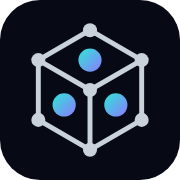
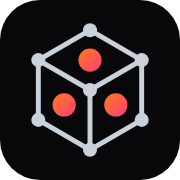
Atlas: recolour theme to Molten metal (black, orange→magenta)
Colours only; icon, manifest and theme-color match. Cache materials-atlas-v87-molten.

Claude-Session: https://claude.ai/code/session_01JnLruDE2DkYYdTFSKZkijB

Changed region(s): [[0.2778, 0.5, 0.4444, 0.6667], [0.5556, 0.5, 0.7222, 0.6667], [0.4167, 0.25, 0.5833, 0.4167]]

diff --git a/index.html b/index.html
@@ -6,7 +6,7 @@
 <meta name="author" content="Harsh Patel" />
 <meta name="viewport" content="width=device-width, initial-scale=1, viewport-fit=cover" />
 <meta name="color-scheme" content="dark" />
-<meta name="theme-color" content="#070A14" />
+<meta name="theme-color" content="#08070A" />
 <link rel="icon" href="data:," />
 <link rel="manifest" href="manifest.json">
 <link rel="apple-touch-icon" sizes="180x180" href="icon-180.png">
@@ -487,59 +487,59 @@ input:not([type=checkbox]):not([type=radio]):not(:focus),select:not(:focus),text
 }
 </style>
 <style id="titanium">
-/* ===== 2026-11-16 "Anodized titanium" theme (Harsh's choice) — presentation only, no data or
-   behaviour change. Last style layer, so it wins by cascade order. Near-black navy base, electric
-   cyan interactive accent (--teal keeps its old name), violet as the second gradient stop.
+/* ===== 2026-11-16 "Molten metal" theme (was Anodized titanium earlier the same day) (Harsh's choice) — presentation only, no data or
+   behaviour change. Last style layer, so it wins by cascade order. True-black base, molten
+   orange interactive accent (--teal keeps its old name), magenta as the second gradient stop.
    Pass/fail/warning colours are unchanged in meaning. ===== */
 :root{
-  --bg:#070A14; --panel:#0F1424; --panel2:#161C30; --steel:#161C30;
-  --ink:#E9EDF7; --ink2:#AEB8CE; --muted:#AEB8CE;
-  --line:#2A3352; --hair:#1F2742; --field:#66739A;
-  --teal:#2EE6D6; --teal-soft:rgba(46,230,214,.10); --violet:#8B7BFF;
-  --grad:linear-gradient(100deg,#2EE6D6 0%,#5FB4F0 45%,#8B7BFF 100%);
-  --on-accent:#041219;
-  --fam-steel:#7C9BFF; --fam-plate:#C38BFF; --fam-stainless:#E6EDF7; --fam-copper:#E0A867; --fam-alu:#9FB0C6; --fam-iron:#FF7AC8;
+  --bg:#08070A; --panel:#141017; --panel2:#1D1722; --steel:#1D1722;
+  --ink:#F4EEE8; --ink2:#BDB2AE; --muted:#BDB2AE;
+  --line:#3A2F3A; --hair:#2A222C; --field:#85748A;
+  --teal:#FF7A1A; --teal-soft:rgba(255,122,26,.10); --violet:#FF3D7F;
+  --grad:linear-gradient(100deg,#FF7A1A 0%,#FF5A4A 45%,#FF3D7F 100%);
+  --on-accent:#1A0A02;
+  --fam-steel:#7C9BFF; --fam-plate:#C38BFF; --fam-stainless:#E6EDF7; --fam-copper:#E8C98A; --fam-alu:#9FB0C6; --fam-iron:#FF7AC8;
 }
 html{background:
-  radial-gradient(ellipse 70% 45% at 0% 0%, rgba(46,230,214,.10) 0%, transparent 60%),
-  radial-gradient(ellipse 60% 40% at 100% 0%, rgba(139,123,255,.12) 0%, transparent 60%),
-  #070A14}
+  radial-gradient(ellipse 70% 45% at 0% 0%, rgba(255,122,26,.10) 0%, transparent 60%),
+  radial-gradient(ellipse 60% 40% at 100% 0%, rgba(255,61,127,.12) 0%, transparent 60%),
+  #08070A}
 body{background:transparent}
-::selection{background:rgba(46,230,214,.30);color:#fff}
+::selection{background:rgba(255,122,26,.30);color:#fff}
 /* header: gradient bar + gradient wordmark */
 header.top{border-top:0}
-header.top::before{content:"";position:absolute;left:0;right:0;top:0;height:4px;border-radius:4px;background:var(--grad);box-shadow:0 0 18px rgba(46,230,214,.35)}
+header.top::before{content:"";position:absolute;left:0;right:0;top:0;height:4px;border-radius:4px;background:var(--grad);box-shadow:0 0 18px rgba(255,122,26,.35)}
 h1 .atlas{background:var(--grad);-webkit-background-clip:text;background-clip:text;color:transparent;-webkit-text-fill-color:transparent}
 .sub b,.sub strong{color:#fff}
 /* the One Rule: readable sans text instead of small monospace */
-.rule{font-family:var(--sans);font-size:15px;line-height:1.5;color:var(--ink);background:linear-gradient(100deg,rgba(46,230,214,.08),rgba(139,123,255,.08));
-  border:1px solid rgba(46,230,214,.45);border-left:4px solid var(--teal);border-radius:8px;box-shadow:none;padding:12px 14px}
+.rule{font-family:var(--sans);font-size:15px;line-height:1.5;color:var(--ink);background:linear-gradient(100deg,rgba(255,122,26,.08),rgba(255,61,127,.08));
+  border:1px solid rgba(255,122,26,.45);border-left:4px solid var(--teal);border-radius:8px;box-shadow:none;padding:12px 14px}
 /* rounder, softer surfaces */
 .starthere,.card,.panel,.elcard,.idcand,.idnear,.formula,.lgi,.warnbox{border-radius:10px}
 .sh-route,.copybtn,input,select,textarea,#learnQ{border-radius:8px}
 .starthere{border-left:0;position:relative;overflow:hidden}
 .starthere::before{content:"";position:absolute;left:0;top:0;bottom:0;width:4px;background:var(--grad)}
 .starthere .sh-title{background:var(--grad);-webkit-background-clip:text;background-clip:text;color:transparent;-webkit-text-fill-color:transparent;display:inline-block}
-.sh-route:hover,.sh-route:focus-visible{border-color:var(--teal);box-shadow:0 0 0 1px rgba(46,230,214,.25),0 6px 22px rgba(46,230,214,.10)}
+.sh-route:hover,.sh-route:focus-visible{border-color:var(--teal);box-shadow:0 0 0 1px rgba(255,122,26,.25),0 6px 22px rgba(255,122,26,.10)}
 /* tabs and pressed controls: gradient fill, dark text */
-nav.tabs{background:rgba(15,20,36,.92);-webkit-backdrop-filter:blur(10px);backdrop-filter:blur(10px);border-top-color:transparent;border-image:none}
+nav.tabs{background:rgba(20,16,23,.92);-webkit-backdrop-filter:blur(10px);backdrop-filter:blur(10px);border-top-color:transparent;border-image:none}
 nav.tabs::before{content:"";position:absolute;left:0;right:0;top:-3px;height:3px;background:var(--grad)}
 @media (min-width:1024px){nav.tabs{border-bottom-color:transparent;border-radius:12px}nav.tabs::before{top:auto;bottom:-3px;left:10px;right:10px;border-radius:3px}}
 nav.tabs button{border-radius:8px}
 nav.tabs button[aria-selected="true"],.chips button[aria-pressed="true"],.modetoggle button[aria-pressed="true"],
 nav.tabs button[aria-selected="true"]:hover,.chips button[aria-pressed="true"]:hover,.modetoggle button[aria-pressed="true"]:hover,
 nav.tabs button[aria-selected="true"]:active,.chips button[aria-pressed="true"]:active,.modetoggle button[aria-pressed="true"]:active{
-  background:var(--grad);color:var(--on-accent);border-color:transparent;box-shadow:0 4px 18px rgba(46,230,214,.22)}
+  background:var(--grad);color:var(--on-accent);border-color:transparent;box-shadow:0 4px 18px rgba(255,122,26,.22)}
 .chips button{border-radius:8px}
 #chkRun,#idRun{background:var(--grad)!important;color:var(--on-accent)!important;border-color:transparent!important;font-weight:700}
 /* cards */
-.card[open]{border-left-color:var(--teal);box-shadow:0 0 0 1px rgba(46,230,214,.18),0 10px 30px rgba(0,0,0,.35)}
+.card[open]{border-left-color:var(--teal);box-shadow:0 0 0 1px rgba(255,122,26,.18),0 10px 30px rgba(0,0,0,.35)}
 .famhead{letter-spacing:.06em}
 /* checker gauge window in the new accent */
 .g-win{background:var(--teal);opacity:.45}
 /* focus */
 button:focus-visible,summary:focus-visible,a:focus-visible{outline:2px solid var(--teal);outline-offset:2px}
-input:focus,select:focus,textarea:focus{outline:2px solid var(--teal);outline-offset:1px;border-color:var(--teal);box-shadow:0 0 0 4px rgba(46,230,214,.12)}
+input:focus,select:focus,textarea:focus{outline:2px solid var(--teal);outline-offset:1px;border-color:var(--teal);box-shadow:0 0 0 4px rgba(255,122,26,.12)}
 a{color:var(--teal)}
 /* grade names keep their real case: 42CrMo4, not 42CRMO4 (Cr and Mo are element symbols) */
 .grade,.idcand .idg,.idnear .idg,#cmpOut th{text-transform:none;letter-spacing:.01em}
@@ -551,8 +551,8 @@ a{color:var(--teal)}
 .disclaim{color:var(--muted);font-size:13.5px;margin:8px 0 0}
 .sister{margin:14px 0;font-size:15px;color:var(--ink)}
 /* sticky strips: translucent glass instead of a flat black band */
-#view-browse > .controls,#view-compare .grid2{background:rgba(7,10,20,.86);-webkit-backdrop-filter:blur(10px);backdrop-filter:blur(10px)}
-@media (min-width:1024px){nav.tabs{box-shadow:0 -16px 0 rgba(7,10,20,.0)}}
+#view-browse > .controls,#view-compare .grid2{background:rgba(8,7,10,.86);-webkit-backdrop-filter:blur(10px);backdrop-filter:blur(10px)}
+@media (min-width:1024px){nav.tabs{box-shadow:0 -16px 0 rgba(8,7,10,.0)}}
 </style>
 </head>
 <body>

diff --git a/sw.js b/sw.js
@@ -1,6 +1,6 @@
 // Materials Atlas service worker — cache-first, offline capable.
 // Bump CACHE on every published data/design change.
-const CACHE = 'materials-atlas-v86-clarity';
+const CACHE = 'materials-atlas-v87-molten';
 const ASSETS = ['./', './index.html', './manifest.json', './icon.svg', './vendor/pdf.min.js', './vendor/pdf.worker.min.js',
   './vendor/fonts.css', './vendor/fonts/barlow-latin-400-normal.woff2', './vendor/fonts/barlow-latin-400-italic.woff2', './vendor/fonts/barlow-latin-500-normal.woff2', './vendor/fonts/barlow-latin-600-normal.woff2', './vendor/fonts/barlow-latin-700-normal.woff2', './vendor/fonts/barlow-condensed-latin-500-normal.woff2', './vendor/fonts/barlow-condensed-latin-600-normal.woff2', './vendor/fonts/barlow-condensed-latin-700-normal.woff2', './vendor/fonts/barlow-semi-condensed-latin-600-normal.woff2', './vendor/fonts/jetbrains-mono-latin-400-normal.woff2', './vendor/fonts/jetbrains-mono-latin-500-normal.woff2', './vendor/fonts/jetbrains-mono-latin-700-normal.woff2'];
 // Fonts are self-hosted (vendor/fonts, SIL OFL) so the offline app looks identical; latin-ext files cache on first use.

diff --git a/README.md b/README.md
@@ -82,13 +82,13 @@ sourced from an older edition, the row says so.
 
 - `index.html` — the whole app (single file, data embedded in readable tables).
 - `manifest.json`, `sw.js`, `icon.svg` — PWA install/offline support.
-  Service-worker cache name is versioned (currently `materials-atlas-v86-clarity`);
+  Service-worker cache name is versioned (currently `materials-atlas-v87-molten`);
   bump it on every published change.
 
 ## Look
 
-Dark "anodized titanium" theme (2026-11-16): near-black navy, electric cyan
-accent with a cyan→violet gradient. Pass = green, fail = red, warning = amber
+Dark "molten metal" theme (2026-11-16): true black, molten orange accent
+with an orange→magenta gradient. Pass = green, fail = red, warning = amber
 (meanings unchanged). Grade names keep their real case (42CrMo4).
 
 ## Publish workflow (for whoever maintains this next)

diff --git a/MUSE-NOTE.md b/MUSE-NOTE.md
@@ -602,3 +602,6 @@ Cache materials-atlas-v85-titanium.
 - **One Rule reworded** to one idea ("a strength means nothing without its condition", with the 1045 HR vs Q&T example); the disclaimer is now its own line (`.disclaim`).
 - **Header intro, rule and disclaimer show on Browse only** (CSS `:has()`); other tabs get a compact title so the tool starts at the top of the phone screen.
 - Footer link to SPC Tools. Cache materials-atlas-v86-clarity.
+
+## Round 29 (2026-11-16): theme recoloured to "Molten metal" (Harsh's choice)
+Same `<style id="titanium">` layer, colours only: base #08070A, panels #141017 / #1D1722, accent #FF7A1A (in `--teal`), second stop #FF3D7F. Icon, manifest and theme-color match. Pass/fail/warning colours unchanged. Cache materials-atlas-v87-molten.
